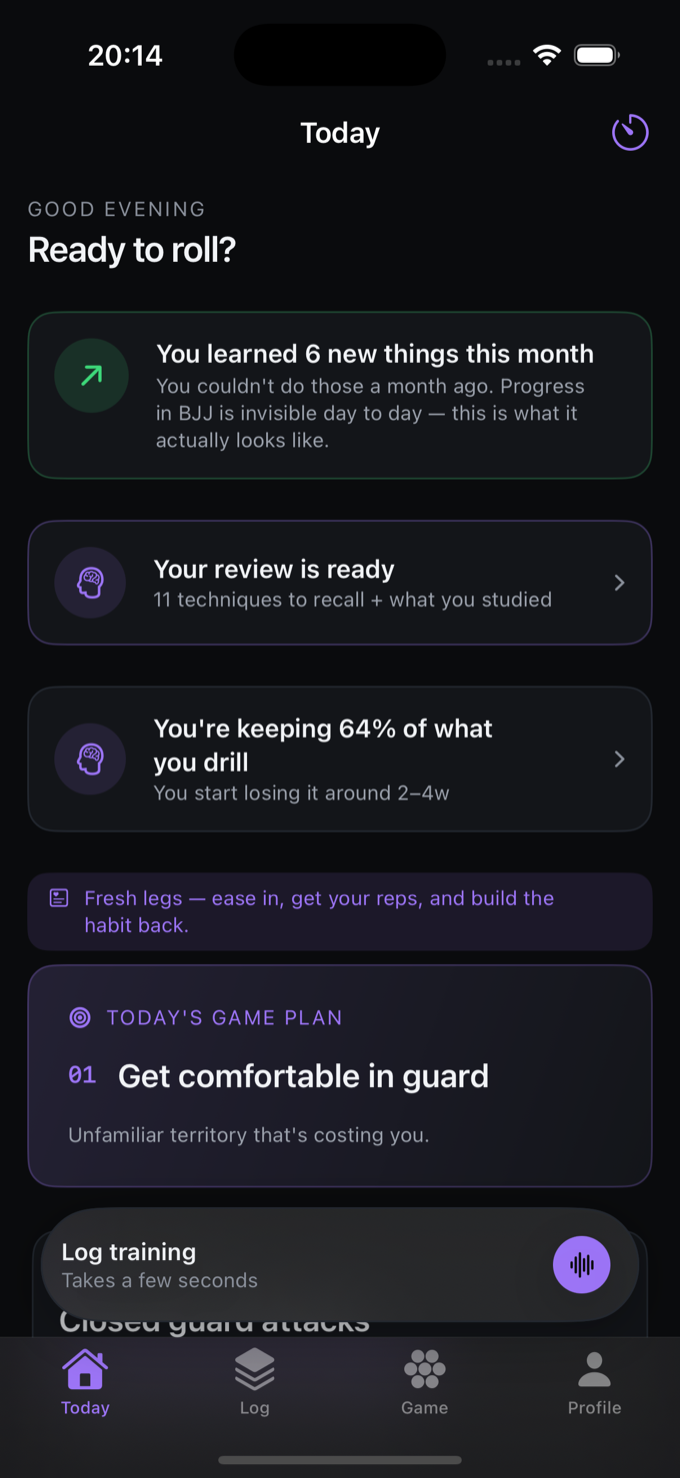
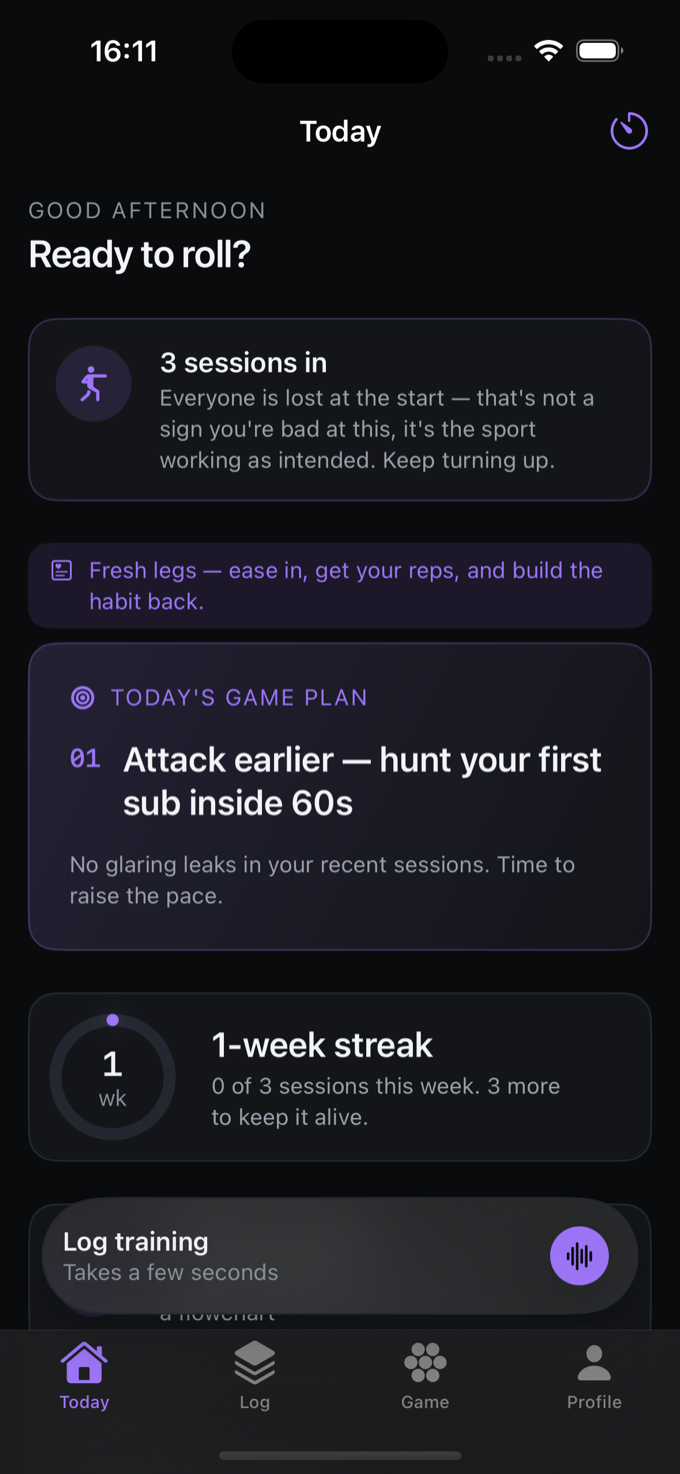
Case studies: lead with the product, add real evidence, recapture stale UI
Both cases read as strong articles with figures attached: two full prose blocks
ran before any product appeared, and every figure sat at the same 248px, so
nothing was the primary moment.

STRUCTURE. Added .pfig.lead -- one dominant frame per page, device roughly doubled
to 420px, caption beneath rather than beside, opened-up surroundings. Used ONCE;
the remaining figures stay at 248px so the hierarchy is real rather than nominal.
Each page now runs premise -> primary product moment -> shortened argument blocks
each paired with evidence.

GRANITE, now 4 body figures (was 3) plus the hero:
  01 the weekly rewrite  (LEAD -- the only screen that shows the engine both
     deciding and showing its working, so it leads)
  02 the check-in
  03 the session  (NEW: g-session.png, a real capture that was sitting unused --
     opens with why the session exists today, prescribes load and RPE per set, and
     takes a pain flag inline, which is the input that changes next week)
  04 on-device history

FRAME, now 3 body figures plus the hero, including a new comparison:
  01 how it is sticking  (LEAD -- 63% retention and the 2-4 week point where
     technique falls out; the product thesis made measurable)
  02 the same screen, one rank down  (NEW: f-game.png, white belt against the
     purple lead -- identical data, every accent derived from rank. The belt engine
     is the most ownable thing in the app and was previously unproven.)
  03 the daily read
[…]

diff --git a/work-granite.html b/work-granite.html
@@ -156,6 +156,25 @@ body.cursor-on,body.cursor-on a,body.cursor-on button,body.cursor-on summary{cur
 /* Verb label on the reticle. Per the research the ring alone is ornament; the verb is what makes it an affordance -- it states what the click will do. Ported from the homepage so the cursor behaves identically across the site. */
 .reticle .verb{position:absolute;left:50%;top:calc(100% + 6px);transform:translateX(-50%);font-family:var(--mono);font-size:var(--t-cap);letter-spacing:.16em;text-transform:uppercase;color:var(--cyan);white-space:nowrap;opacity:0;transition:opacity .2s;}
 .reticle.lock .verb{opacity:1;}
+
+/* PRIMARY PRODUCT MOMENT. The case pages led with two prose blocks before any
+   product appeared, and every figure sat at the same 248px -- so the evidence read
+   as illustration attached to an essay. .pfig.lead is the one dominant frame: the
+   device roughly doubles, the caption sits beneath it rather than beside, and the
+   surrounding space opens up so the screen is the event. Used ONCE per page; the
+   later figures stay at the smaller size so the hierarchy is real. */
+.pfig.lead{margin-top:clamp(34px,5vw,60px);padding:clamp(30px,5vw,64px) clamp(24px,4vw,48px) clamp(26px,4vw,44px);grid-template-columns:1fr;justify-items:center;gap:clamp(26px,3.4vw,40px);}
+.pfig.lead .device{width:min(420px,80vw);box-shadow:0 54px 130px rgba(0,0,0,.66);}
+.pfig.lead .pcap{max-width:52ch;text-align:center;}
+.pfig.lead .pcap .pd{font-size:var(--t-sub);line-height:1.12;color:var(--paper);}
+/* PAIR. Two devices in one frame, for the case where the comparison IS the proof
+   (same screen, two belt ranks -- the accent is derived from rank, not decoration). */
+.pfig.pair{grid-template-columns:1fr;justify-items:center;gap:clamp(24px,3vw,38px);}
+.pfig.pair .duo{display:grid;grid-template-columns:1fr 1fr;gap:clamp(18px,3vw,44px);align-items:start;width:100%;justify-items:center;}
+.pfig.pair .duo figure{margin:0;display:flex;flex-direction:column;align-items:center;gap:12px;}
+.pfig.pair .duo figcaption{font-family:var(--mono);font-size:var(--t-cap);letter-spacing:.16em;text-transform:uppercase;color:var(--dim);}
+.pfig.pair .pcap{max-width:54ch;text-align:center;}
+@media(max-width:620px){.pfig.pair .duo{gap:14px;}.pfig.pair .duo .device{width:min(150px,42vw);}}
 </style>
 <script defer src="https://cdn.vercel-insights.com/v1/script.js"></script>
 <script>
@@ -190,9 +209,10 @@ body.cursor-on,body.cursor-on a,body.cursor-on button,body.cursor-on summary{cur
     <div class="cslabel">The work<br>01 / GRANITE</div>
     <div>
       <div class="block reveal"><p class="csintro">Granite is a strength coach that runs entirely on your phone. Not a plan you follow, but an engine that reasons &mdash; building your training around the life you actually train through, rewriting it each week as things change. We built it deterministic and on-device on purpose: your training history never leaves your hands, and every decision it makes can be traced, tested, and trusted.</p></div>
-      <div class="block reveal"><h2>A coach, not a plan</h2><p>Most training apps hand you a fixed plan and hope you follow it. Granite works the other way round. It reasons &mdash; taking your goals, your experience, the days you actually have, your injuries, and the load you carry off the platform &mdash; and builds a week that fits your real life. When something changes, it rewrites, and tells you why. Not a plan you obey. A coach that adapts.</p><div class="pfig"><div class="device"><img src="media/shots/g-coach.png" alt="Granite — tell your coach what changed this week" loading="lazy" width="680" height="1478"></div><div class="pcap"><span class="pn">Fig. 01 &middot; Granite &middot; the check-in</span><span class="pd">You tell it what changed this week &mdash; a tweak, a bad night, a niggle &mdash; and the plan reasons around it.</span></div></div></div>
-      <div class="block reveal"><h2>The engine is the product</h2><p>The intelligence in Granite is deterministic, not generative &mdash; and that&rsquo;s a deliberate choice, not a limitation. It means every plan is consistent, every decision can be traced, and the whole system can be tested against real coaching principles rather than hoping a black box got it right. Accountable intelligence beats impressive intelligence when it&rsquo;s your body on the line. We built the engine first, and everything else serves it.</p><div class="pfig flip"><div class="device"><img src="media/shots/g-review.png" alt="Granite — the weekly rewrite, explained" loading="lazy" width="680" height="1478"></div><div class="pcap"><span class="pn">Fig. 02 &middot; Granite &middot; the weekly rewrite</span><span class="pd">You missed sessions, so it pulls the week back &mdash; a deload, 40% less volume, loads held &mdash; and traces exactly what changed and why.</span></div></div></div>
-      <div class="block reveal"><h2>On-device by decision</h2><p>Granite runs entirely on your phone. No account, no cloud, no data leaving your hands &mdash; the privacy isn&rsquo;t a policy you have to trust, it&rsquo;s the architecture. Running locally was the harder path, and it made the product sharper: an engine that can&rsquo;t lean on the cloud has to be deliberate about every decision. That constraint is the craft. Granite is the considered version of something most people build the easy way.</p><div class="pfig"><div class="device"><img src="media/shots/g-progress.png" alt="Granite — progress and personal records, tracked on-device" loading="lazy" width="680" height="1478"></div><div class="pcap"><span class="pn">Fig. 03 &middot; Granite &middot; progress</span><span class="pd">Every session, every PR and every trend lives on the phone &mdash; no account, no cloud, nothing leaving your hands.</span></div></div></div>
+      <div class="block reveal"><div class="pfig lead"><div class="device"><img src="media/shots/g-review.png" alt="Granite — the weekly rewrite, with the reasoning shown" loading="lazy" width="680" height="1478"></div><div class="pcap"><span class="pn">Fig. 01 &middot; Granite &middot; the weekly rewrite</span><span class="pd">You missed sessions, so it pulls the week back &mdash; a deload, 40% less volume, loads held &mdash; and traces exactly what changed and why.</span></div></div></div>
+      <div class="block reveal"><h2>A coach, not a plan</h2><p>Most training apps hand you a fixed plan and hope you follow it. Granite works the other way round. It reasons &mdash; taking your goals, your experience, the days you actually have, your injuries, and the load you carry off the platform &mdash; and builds a week that fits your real life. When something changes, it rewrites, and tells you why. Not a plan you obey. A coach that adapts.</p><div class="pfig"><div class="device"><img src="media/shots/g-coach.png" alt="Granite — tell your coach what changed this week" loading="lazy" width="680" height="1478"></div><div class="pcap"><span class="pn">Fig. 02 &middot; Granite &middot; the check-in</span><span class="pd">You tell it what changed this week &mdash; a tweak, a bad night, a niggle &mdash; and the plan reasons around it.</span></div></div></div>
+      <div class="block reveal"><h2>The engine is the product</h2><p>The intelligence in Granite is deterministic, not generative &mdash; and that&rsquo;s a deliberate choice, not a limitation. It means every plan is consistent, every decision can be traced, and the whole system can be tested against real coaching principles rather than hoping a black box got it right. Accountable intelligence beats impressive intelligence when it&rsquo;s your body on the line. We built the engine first, and everything else serves it.</p><div class="pfig flip"><div class="device"><img src="media/shots/g-session.png" alt="Granite — a session in progress, with the reason for today and pain capture" loading="lazy" width="680" height="1478"></div><div class="pcap"><span class="pn">Fig. 03 &middot; Granite &middot; the session</span><span class="pd">Every session opens with why it exists today &mdash; then prescribes load and RPE per set, and takes a pain flag inline, because that is the input that changes next week.</span></div></div></div>
+      <div class="block reveal"><h2>On-device by decision</h2><p>Granite runs entirely on your phone. No account, no cloud, no data leaving your hands &mdash; the privacy isn&rsquo;t a policy you have to trust, it&rsquo;s the architecture. Running locally was the harder path, and it made the product sharper: an engine that can&rsquo;t lean on the cloud has to be deliberate about every decision. That constraint is the craft. Granite is the considered version of something most people build the easy way.</p><div class="pfig"><div class="device"><img src="media/shots/g-progress.png" alt="Granite — progress and personal records, tracked on-device" loading="lazy" width="680" height="1478"></div><div class="pcap"><span class="pn">Fig. 04 &middot; Granite &middot; on-device history</span><span class="pd">Every session, every PR and every trend lives on the phone &mdash; no account, no cloud, nothing leaving your hands.</span></div></div></div>
       <div class="decide reveal">
         <span class="dlabel">The ledger &middot; kept / cut</span>
         <div class="dl">The product is the decisions we refused to skip.</div>

diff --git a/work-frame.html b/work-frame.html
@@ -156,6 +156,25 @@ body.cursor-on,body.cursor-on a,body.cursor-on button,body.cursor-on summary{cur
 /* Verb label on the reticle. Per the research the ring alone is ornament; the verb is what makes it an affordance -- it states what the click will do. Ported from the homepage so the cursor behaves identically across the site. */
 .reticle .verb{position:absolute;left:50%;top:calc(100% + 6px);transform:translateX(-50%);font-family:var(--mono);font-size:var(--t-cap);letter-spacing:.16em;text-transform:uppercase;color:var(--cyan);white-space:nowrap;opacity:0;transition:opacity .2s;}
 .reticle.lock .verb{opacity:1;}
+
+/* PRIMARY PRODUCT MOMENT. The case pages led with two prose blocks before any
+   product appeared, and every figure sat at the same 248px -- so the evidence read
+   as illustration attached to an essay. .pfig.lead is the one dominant frame: the
+   device roughly doubles, the caption sits beneath it rather than beside, and the
+   surrounding space opens up so the screen is the event. Used ONCE per page; the
+   later figures stay at the smaller size so the hierarchy is real. */
+.pfig.lead{margin-top:clamp(34px,5vw,60px);padding:clamp(30px,5vw,64px) clamp(24px,4vw,48px) clamp(26px,4vw,44px);grid-template-columns:1fr;justify-items:center;gap:clamp(26px,3.4vw,40px);}
+.pfig.lead .device{width:min(420px,80vw);box-shadow:0 54px 130px rgba(0,0,0,.66);}
+.pfig.lead .pcap{max-width:52ch;text-align:center;}
+.pfig.lead .pcap .pd{font-size:var(--t-sub);line-height:1.12;color:var(--paper);}
+/* PAIR. Two devices in one frame, for the case where the comparison IS the proof
+   (same screen, two belt ranks -- the accent is derived from rank, not decoration). */
+.pfig.pair{grid-template-columns:1fr;justify-items:center;gap:clamp(24px,3vw,38px);}
+.pfig.pair .duo{display:grid;grid-template-columns:1fr 1fr;gap:clamp(18px,3vw,44px);align-items:start;width:100%;justify-items:center;}
+.pfig.pair .duo figure{margin:0;display:flex;flex-direction:column;align-items:center;gap:12px;}
+.pfig.pair .duo figcaption{font-family:var(--mono);font-size:var(--t-cap);letter-spacing:.16em;text-transform:uppercase;color:var(--dim);}
+.pfig.pair .pcap{max-width:54ch;text-align:center;}
+@media(max-width:620px){.pfig.pair .duo{gap:14px;}.pfig.pair .duo .device{width:min(150px,42vw);}}
 </style>
 <script defer src="https://cdn.vercel-insights.com/v1/script.js"></script>
 <script>
@@ -190,8 +209,9 @@ body.cursor-on,body.cursor-on a,body.cursor-on button,body.cursor-on summary{cur
     <div class="cslabel">The work<br>02 / FRAME</div>
     <div>
       <div class="block reveal"><p class="csintro">Frame is a BJJ training journal built on a hard truth: you forget most of what you&rsquo;re taught within days. Log a session in seconds by voice, and Frame holds every technique, brings it back just before you&rsquo;d forget it, and shows you &mdash; in plain data &mdash; that you&rsquo;re actually improving. Built for the belts who feel stuck, so they have a reason to keep turning up.</p></div>
-      <div class="block reveal"><h2>Built against the forgetting curve</h2><p>A single session throws four or five details at you &mdash; the grip, the angle, the small correction that made the sweep finally work &mdash; and within a week almost all of them are gone. Frame is built around that decay rather than despite it. Everything you log comes back to you on a schedule: a few days later, then a week, then a month, timed to land just before you&rsquo;d lose it. There&rsquo;s nothing to revise and no flashcards to sit down with &mdash; the app works out what&rsquo;s about to fade and puts it in front of you. Retention is the product, and it&rsquo;s the one thing a notebook has never done.</p><div class="pfig"><div class="device"><img src="media/shots/f-gamenew.png" alt="Frame — how well each technique is sticking" loading="lazy" width="680" height="1478"></div><div class="pcap"><span class="pn">Fig. 01 &middot; Frame &middot; how it&rsquo;s sticking</span><span class="pd">The forgetting curve, measured. Frame watches what&rsquo;s fading and brings it back before it&rsquo;s gone.</span></div></div></div>
-      <div class="block reveal"><h2>The log you&rsquo;ll actually keep</h2><p>Everyone knows they should keep a training journal. Almost nobody does, because writing one up after an hour of getting choked is the last thing you want to do. Frame removes the friction: talk for thirty seconds in the car &mdash; &ldquo;started in closed guard, hit a scissor sweep to mount, got swept, tapped to an armbar&rdquo; &mdash; and it transcribes on-device and turns it into a structured session you just confirm. Then it reads your game back to you: the positions you live in, the subs you land, the ones that keep catching you, and hands you one or two specific things to hunt next session. A plan, not a feed.</p><div class="pfig flip"><div class="device"><img src="media/shots/f-today.png" alt="Frame — the daily home: log in seconds, recall what's fading" loading="lazy" width="680" height="1478"></div><div class="pcap"><span class="pn">Fig. 02 &middot; Frame &middot; the daily read</span><span class="pd">Log in thirty seconds by voice &mdash; and the same screen brings back what you&rsquo;re about to forget, before you forget it.</span></div></div></div>
+      <div class="block reveal"><div class="pfig lead"><div class="device"><img src="media/shots/f-gamenew.png" alt="Frame — how well techniques are sticking, measured at 63%" loading="lazy" width="680" height="1478"></div><div class="pcap"><span class="pn">Fig. 01 &middot; Frame &middot; how it&rsquo;s sticking</span><span class="pd">The forgetting curve, measured on your own sessions: 63% retention, and the point &mdash; 2&ndash;4 weeks &mdash; where techniques start falling out.</span></div></div></div>
+      <div class="block reveal"><h2>Built against the forgetting curve</h2><p>A single session throws four or five details at you &mdash; the grip, the angle, the small correction that made the sweep finally work &mdash; and within a week almost all of them are gone. Frame is built around that decay rather than despite it. Everything you log comes back to you on a schedule: a few days later, then a week, then a month, timed to land just before you&rsquo;d lose it. There&rsquo;s nothing to revise and no flashcards to sit down with &mdash; the app works out what&rsquo;s about to fade and puts it in front of you. Retention is the product, and it&rsquo;s the one thing a notebook has never done.</p></div>
+      <div class="block reveal"><h2>The log you&rsquo;ll actually keep</h2><p>Everyone knows they should keep a training journal. Almost nobody does, because writing one up after an hour of getting choked is the last thing you want to do. Frame removes the friction: talk for thirty seconds in the car &mdash; &ldquo;started in closed guard, hit a scissor sweep to mount, got swept, tapped to an armbar&rdquo; &mdash; and it transcribes on-device and turns it into a structured session you just confirm. Then it reads your game back to you: the positions you live in, the subs you land, the ones that keep catching you, and hands you one or two specific things to hunt next session. A plan, not a feed.</p><div class="pfig"><div class="device"><img src="media/shots/f-game.png" alt="Frame — the same screen at white belt, accent derived from rank" loading="lazy" width="680" height="1478"></div><div class="pcap"><span class="pn">Fig. 02 &middot; Frame &middot; the same screen, one rank down</span><span class="pd">Identical data, white belt. Every accent in the app is derived from the rank you hold &mdash; so the interface tells you where you are before you read a word of it.</span></div></div><div class="pfig flip"><div class="device"><img src="media/shots/f-today.png" alt="Frame — the daily home: log in seconds, recall what's fading" loading="lazy" width="680" height="1478"></div><div class="pcap"><span class="pn">Fig. 03 &middot; Frame &middot; the daily read</span><span class="pd">Log in thirty seconds by voice &mdash; and the same screen brings back what you&rsquo;re about to forget, before you forget it.</span></div></div></div>
       <div class="block reveal"><h2>The app wears your belt</h2><p>Frame is built for the belt journey and it shows it &mdash; the whole app takes on the colour of your rank and changes with you as you&rsquo;re promoted. It runs offline-first and keeps your training history yours: saved the instant you log it, private, exportable, never sold. The goal underneath every decision is simple and hard: make the progress you can&rsquo;t feel visible, so the belts who&rsquo;d otherwise quit have a reason to come back for the next stripe &mdash; not more features, but more people still on the mat a year from now.</p></div>
       <div class="decide reveal">
         <span class="dlabel">The ledger &middot; kept / cut</span>
